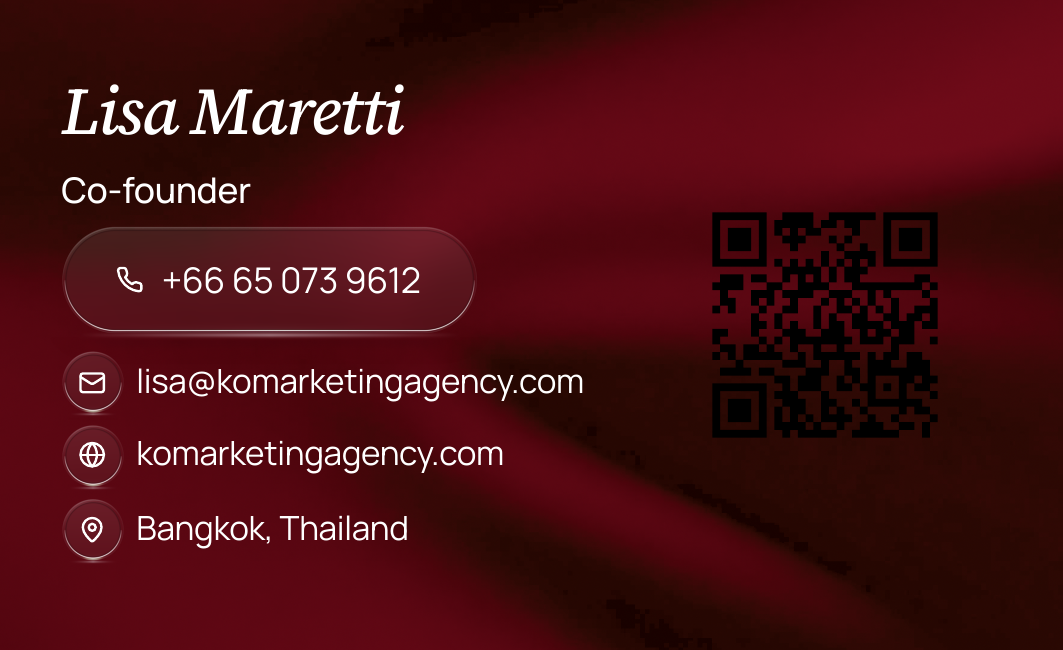
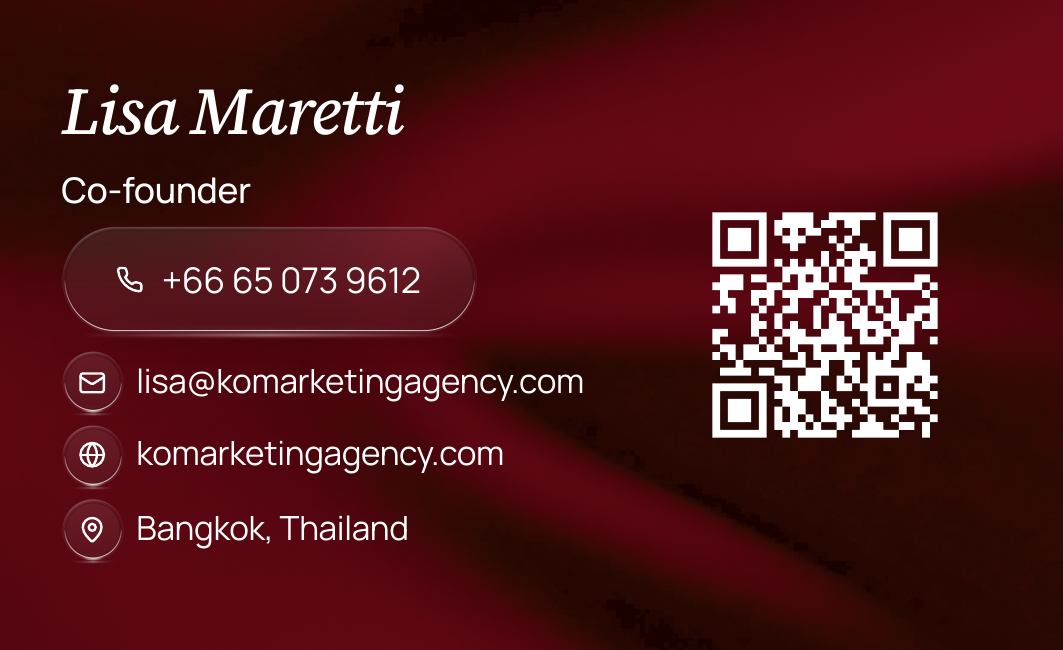
Restore white QR modules on the satin.
The modules are #FFFFFF with no tile, at the same 24.2 mm size and position. The pin badge, recentered column, and burgundy satin stay as they are.

Changed region(s): [[0.6519, 0.3077, 0.9003, 0.6769]]

diff --git a/brand/business-cards/cards.html b/brand/business-cards/cards.html
@@ -13,7 +13,7 @@
     map-pin icons sit in matching circular glass badges, also baked. The left
     column is one group: its cap line and the address badge are equally inset
     from the 55 mm trim, and the QR is centered on that same axis. The QR is
-    black modules on the satin, with no tile.
+    white modules on the satin, with no tile.
     Logo, type, icon, and QR are vectors. No opacity, masks, or blend modes.
   -->
   <style>

diff --git a/brand/business-cards/build_assets.py b/brand/business-cards/build_assets.py
@@ -16,7 +16,7 @@ ASSETS = ROOT / "assets"
 DPI = int(os.environ.get("CARD_DPI", "600"))
 
 # Millimetres from the bleed origin. cards.html uses the same numbers.
-# The symbol includes a 4-module quiet zone. Black modules sit on the satin;
+# The symbol includes a 4-module quiet zone. White modules sit on the satin;
 # the quiet zone and the gaps are the cloth itself. Bleed millimetres.
 QR_SYMBOL = (60.7, 18.400, 24.2, 24.2)
 QR_QUIET_MODULES = 4
@@ -622,7 +622,7 @@ def trace_wordmark():
 
 
 def build_qr_svg():
-    """Black modules only. The satin is the quiet zone and the gaps."""
+    """White modules only. The satin is the quiet zone and the gaps."""
     qr = segno.make("https://komarketingagency.com", error="q")
     modules = list(qr.matrix_iter(scale=1, border=QR_QUIET_MODULES))
     n = len(modules)
@@ -641,7 +641,7 @@ def build_qr_svg():
     svg = (
         f'<svg xmlns="http://www.w3.org/2000/svg" viewBox="0 0 {n} {n}" '
         f'width="{n}" height="{n}">'
-        f'<path fill="#000000" d="{"".join(parts)}"/>'
+        f'<path fill="#ffffff" d="{"".join(parts)}"/>'
         f"</svg>"
     )
     (ASSETS / "qr.svg").write_text(svg)
@@ -748,21 +748,21 @@ def main():
     quiet = QR_QUIET_MODULES * module
     sx, sy, ss, _ = QR_SYMBOL
     data_box = (sx + quiet, sy + quiet, ss - 2 * quiet, ss - 2 * quiet)
-    # Trim is 3 mm inside the bleed. The tile must stay 3 mm clear of that edge.
-    tile_right = sx + ss
+    # Trim is 3 mm inside the bleed. The symbol must stay 3 mm clear of that edge.
+    symbol_right = sx + ss
     trim_right = 93.0
-    clearance = trim_right - tile_right
+    clearance = trim_right - symbol_right
     qx0, qy0, qw, qh = (int(round(px(v))) for v in (sx, sy, ss, ss))
     ground = back[qy0:qy0 + qh, qx0:qx0 + qw].reshape(-1, 3)
     light = ground[int(np.argmax(np.apply_along_axis(rel_lum, 1, ground)))]
-    black_ratio = (rel_lum(light) + 0.05) / 0.05
+    white_ratio = 1.05 / (rel_lum(light) + 0.05)
     print(
         f"qr symbol {ss:.2f}mm quiet {QR_QUIET_MODULES} modules ({quiet:.2f}mm) "
         f"right clearance {clearance:.2f}mm"
     )
     print(
-        f"qr black vs lightest satin {light.round(1)} {_hex(light)} "
-        f"contrast {black_ratio:.2f}:1"
+        f"qr white vs lightest satin {light.round(1)} {_hex(light)} "
+        f"contrast {white_ratio:.2f}:1"
     )
     if QR_QUIET_MODULES < 2:
         raise SystemExit("QR quiet zone is under 2 modules")
